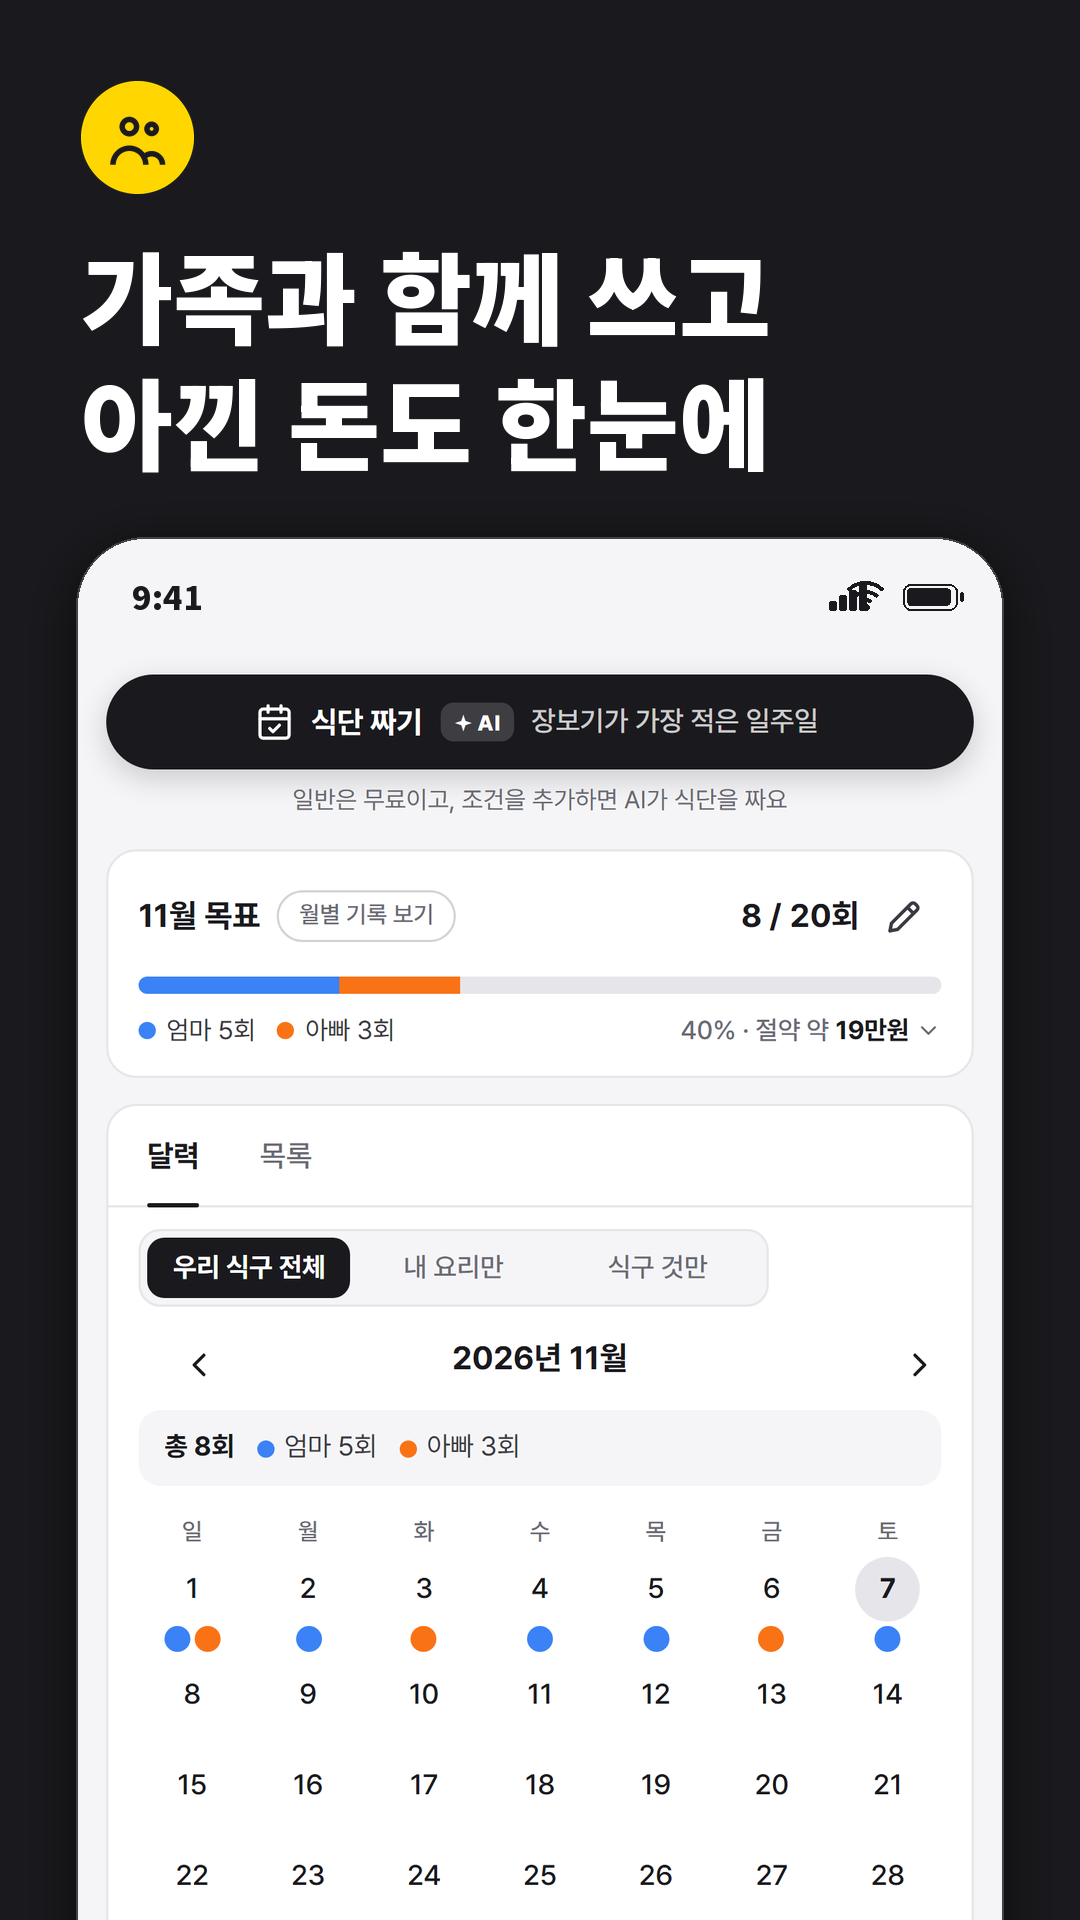
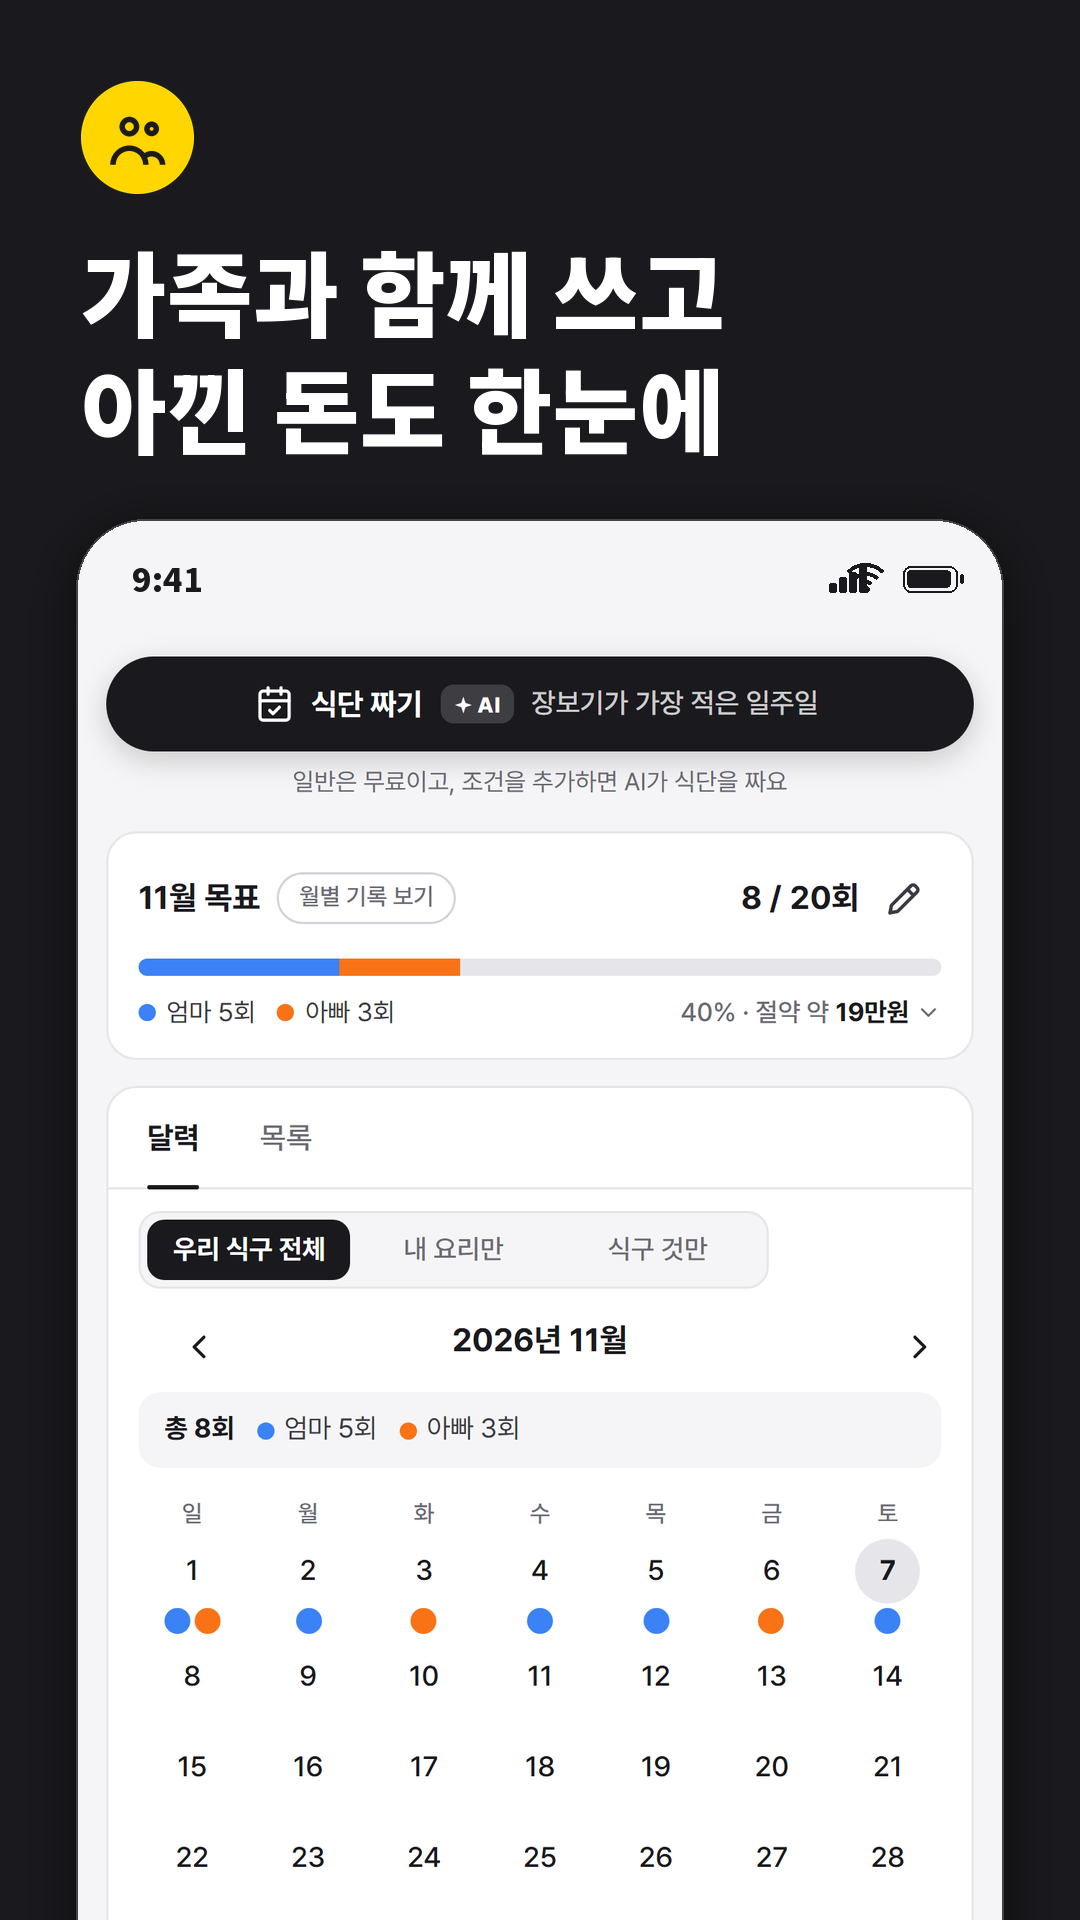
스토어 v3 헤드라인 3곳: 매칭률 순·쿡 코치 전반 답변·소비기한 자동 예상

diff --git a/store/make_store_assets_v3.py b/store/make_store_assets_v3.py
@@ -41,15 +41,15 @@ SLIDES = [
     dict(key="cook", src="cook_v3.png", cut=236, icon="speaker", ai=False, band="k", kind="cook",
          headline="단계별로 요약해서\n손 안 대고 귀로 듣기"),
     dict(key="match", src="list_top_v3.png", cut=56, icon="fridge", ai=False, band="y",
-         headline="내 냉장고 재료로\n만들 수 있는 요리 찾기"),
+         headline="재료 매칭률 높은 순으로\n만들 수 있는 요리 찾기"),
     dict(key="substitute", src="coach_substitute_v3.png", src_short="coach_substitute_v3_short.png", cut=108, icon="swap", ai=True, band="k", fix="coach",
-         headline="재료가 없으면\n쿡 코치가 대체까지"),
+         headline="재료 대체부터 계량까지\n쿡 코치가 다 답해요"),
     dict(key="photo", src="photo_receipt_v2.png", cut=140, icon="camera", ai=True, kind="photo", band="y", fix="photo",
          headline="사진 한 장으로\n재료 등록 끝"),
     dict(key="ai", src="chat_v3.png", cut=150, icon="chat", ai=True, kind="ai", band="k", fix="chat",
          headline="물어보면 레시피부터\n식단까지 척척"),
     dict(key="expiry", src="expiry_v3.png", cut=150, cut_short=270, icon="timer", ai=False, band="y", fix="expiry",
-         headline="곧 상할 재료부터\n먼저 알려드려요"),
+         headline="소비기한은 자동으로\n곧 상할 재료부터 먼저"),
     dict(key="family", src="family_v3.png", cut=56, icon="users", ai=False, band="k",
          headline="가족과 함께 쓰고\n아낀 돈도 한눈에"),
 ]
